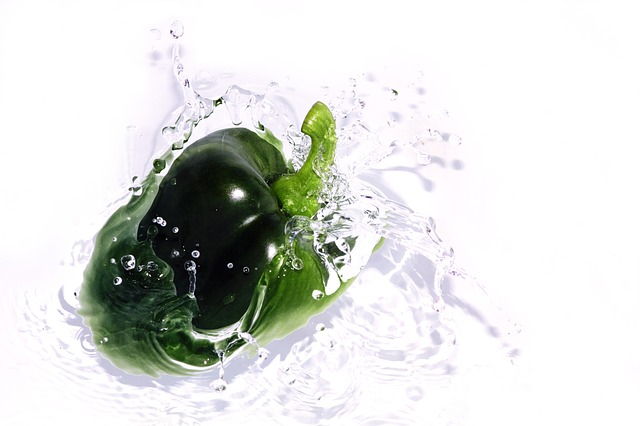
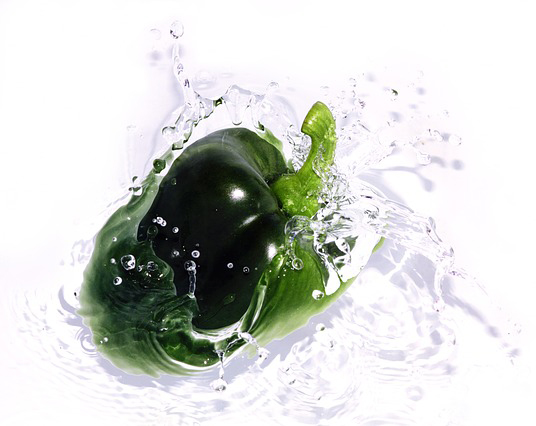
Pepperfixplz

diff --git a/SukkuShop/Content/css/Konto/OrderHistory.min.css b/SukkuShop/Content/css/Konto/OrderHistory.min.css
@@ -1,1 +1,1 @@
-.details-container table.history-table tr th{width:280px;text-align:center;vertical-align:middle}.details-container table.history-table tr th:first-child,.details-container table.history-table tbody tr td:first-child{width:185px;text-align:left;position:relative}.details-container{width:1066px;margin:auto}.details-container ul.choice{margin-top:80px;padding-left:160px;text-align:center;height:66px;text-transform:uppercase;color:#f89b1d;font-family:Segoe UI;font-size:24px;border-bottom:1px solid #f89b1d;border-top:1px solid #f89b1d}.details-container ul.choice li{margin-right:160px;margin-top:20px;display:inline-block}.details-container ul.choice li.selected{font-weight:bold}.details-container table.history-table{font-family:SegoeLight;font-size:24px}.details-container table.history-table tr th{text-transform:lowercase;border-bottom:1px solid #bababa}.details-container table.history-table tr th:last-child{width:310px;text-align:right}.details-container table.history-table tbody tr td{line-height:54px;font-family:SegoeBold;text-align:center;border-bottom:1px solid #bababa}.details-container table.history-table tbody tr td a.see{color:#bababa;font-size:11px}.details-container table.history-table tbody tr td:last-child{text-align:right;font-size:18px;color:#268e09}.img-container{width:1066px;margin:auto;border-bottom:0}.img-container .img-box{height:426px;width:640px;margin:auto}
+.details-container table.history-table tr th{width:280px;text-align:center;vertical-align:middle}.details-container table.history-table tr th:first-child,.details-container table.history-table tbody tr td:first-child{width:185px;text-align:left;position:relative}.details-container{width:1066px;margin:auto}.details-container ul.choice{margin-top:80px;padding-left:160px;text-align:center;height:66px;text-transform:uppercase;color:#f89b1d;font-family:Segoe UI;font-size:24px;border-bottom:1px solid #f89b1d;border-top:1px solid #f89b1d}.details-container ul.choice li{margin-right:160px;margin-top:20px;display:inline-block}.details-container ul.choice li.selected{font-weight:bold}.details-container table.history-table{font-family:SegoeLight;font-size:24px}.details-container table.history-table tr th{text-transform:lowercase;border-bottom:1px solid #bababa}.details-container table.history-table tr th:last-child{width:310px;text-align:right}.details-container table.history-table tbody tr td{line-height:54px;font-family:SegoeBold;text-align:center;border-bottom:1px solid #bababa}.details-container table.history-table tbody tr td a.see{color:#bababa;font-size:11px}.details-container table.history-table tbody tr td:last-child{text-align:right;font-size:18px;color:#268e09}.img-container{width:1066px;margin:auto;border-bottom:0}.img-container .img-box{height:426px;width:536px;margin:auto}

diff --git a/SukkuShop/Content/web/OrderHistory.html b/SukkuShop/Content/web/OrderHistory.html
@@ -29,33 +29,12 @@
                     <td><a href="#" class="see">podgląd zamówienia</a></td>
                     <td>zrealizowane</td>
                 </tr>
-                <tr>
-                    <td>123456</td>
-                    <td>1-10-2014</td>
-                    <td>100,00 zł</td>
-                    <td><a href="#" class="see">podgląd zamówienia</a></td>
-                    <td>zrealizowane</td>
-                </tr>
-                <tr>
-                    <td>123456</td>
-                    <td>1-10-2014</td>
-                    <td>100,00 zł</td>
-                    <td><a href="#" class="see">podgląd zamówienia</a></td>
-                    <td>anulowane</td>
-                </tr>
-                <tr>
-                    <td>123456</td>
-                    <td>1-10-2014</td>
-                    <td>100,00 zł</td>
-                    <td><a href="#" class="see">podgląd zamówienia</a></td>
-                    <td>oczekiwanie na wplatę</td>
-                </tr>
             </tbody>
         </table>
     </div>
     <div class="img-container">
         <div class="img-box">
-            <img src="~/Content/Images/Panels/pepper.jpg"/>
+            <img src="../Images/Panels/pepper.jpg"/>
         </div>
     </div>
 </body>

diff --git a/SukkuShop/Content/css/Konto/OrderHistory.scss b/SukkuShop/Content/css/Konto/OrderHistory.scss
@@ -95,7 +95,7 @@ $font_2: SegoeBold;
     border-bottom:0;
     .img-box{
         height:426px;
-        width: 640px;
+        width: 536px;
         margin:auto;    
     }
 }

diff --git a/SukkuShop/Content/css/Konto/OrderHistory.css b/SukkuShop/Content/css/Konto/OrderHistory.css
@@ -57,6 +57,6 @@
   border-bottom: 0; }
   .img-container .img-box {
     height: 426px;
-    width: 640px;
+    width: 536px;
     margin: auto; }
 
